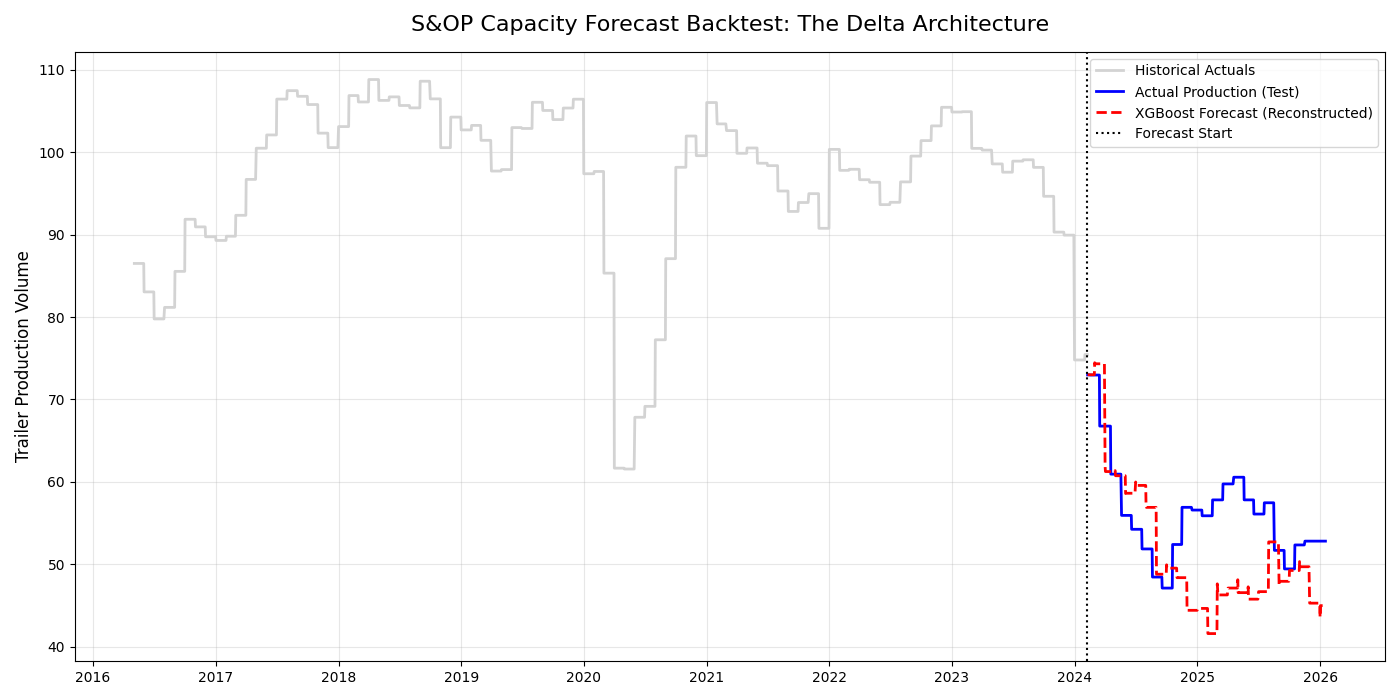
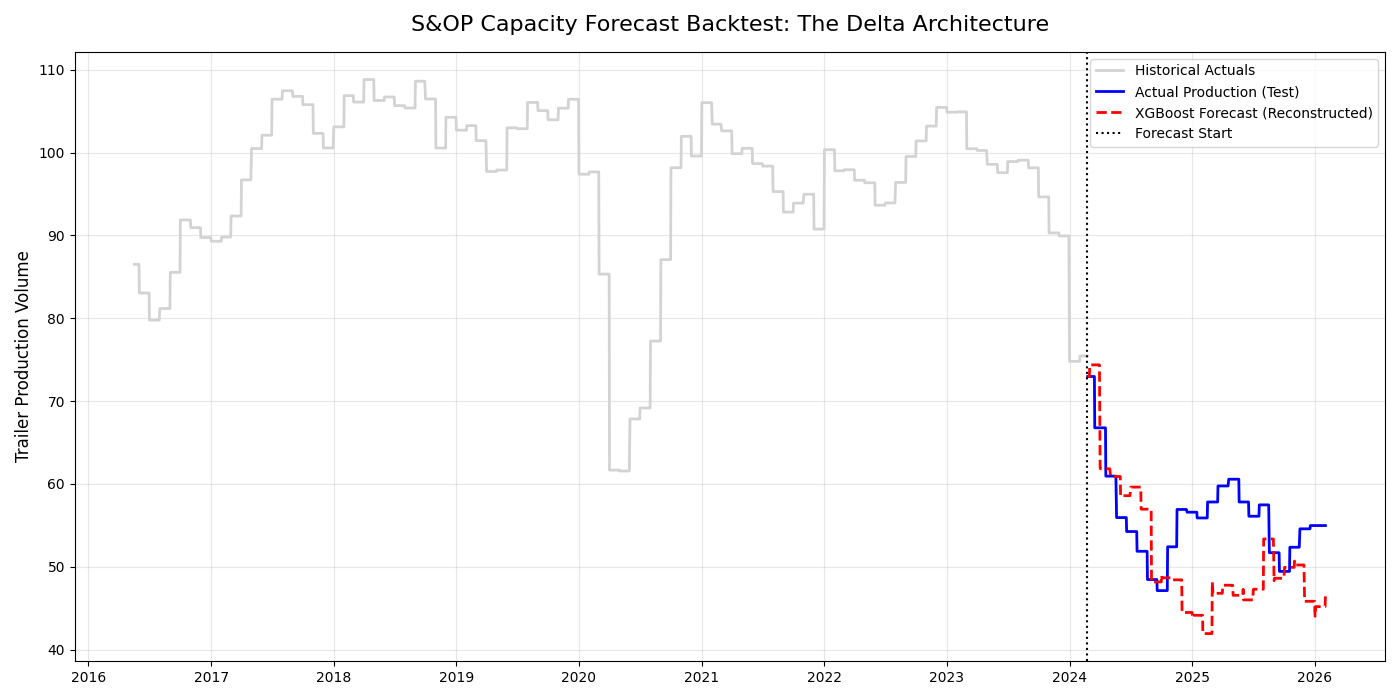
Run backtest

diff --git a/src/freight_market_sensing/models.py b/src/freight_market_sensing/models.py
@@ -249,5 +249,5 @@ def generate_live_forecast():
 
 if __name__ == "__main__":
     # Comment out the backtest and run the live forecast!
-    # run_backtest()
+    run_backtest()
     generate_live_forecast()